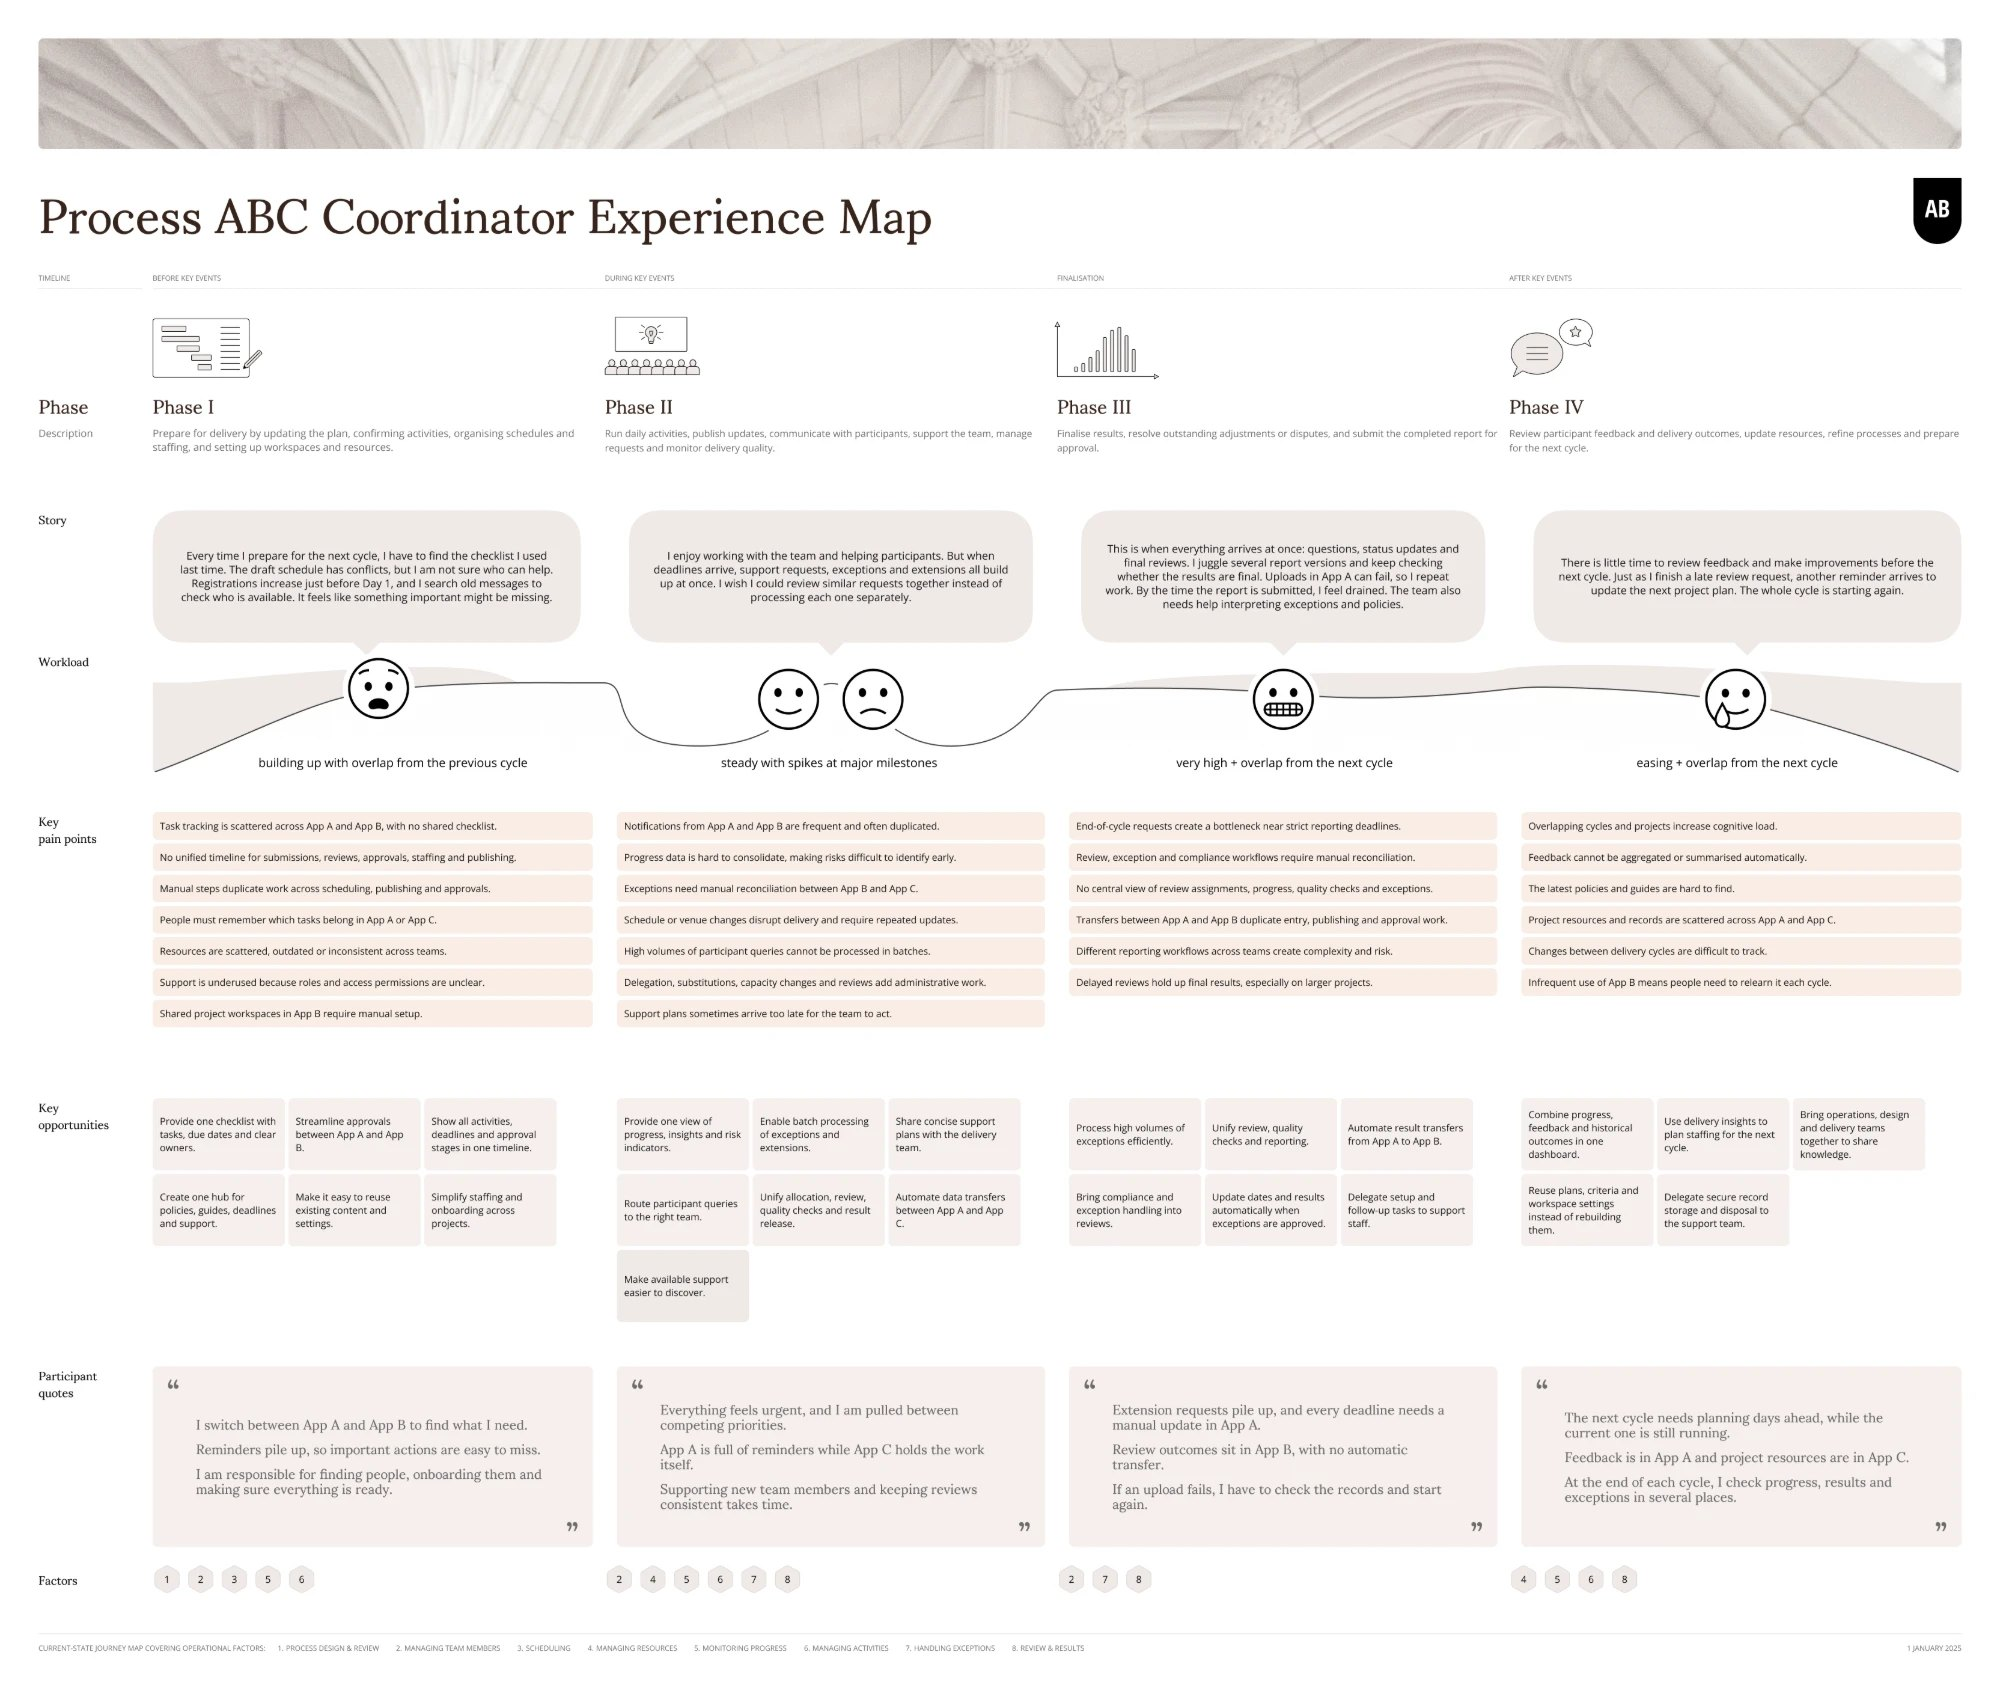
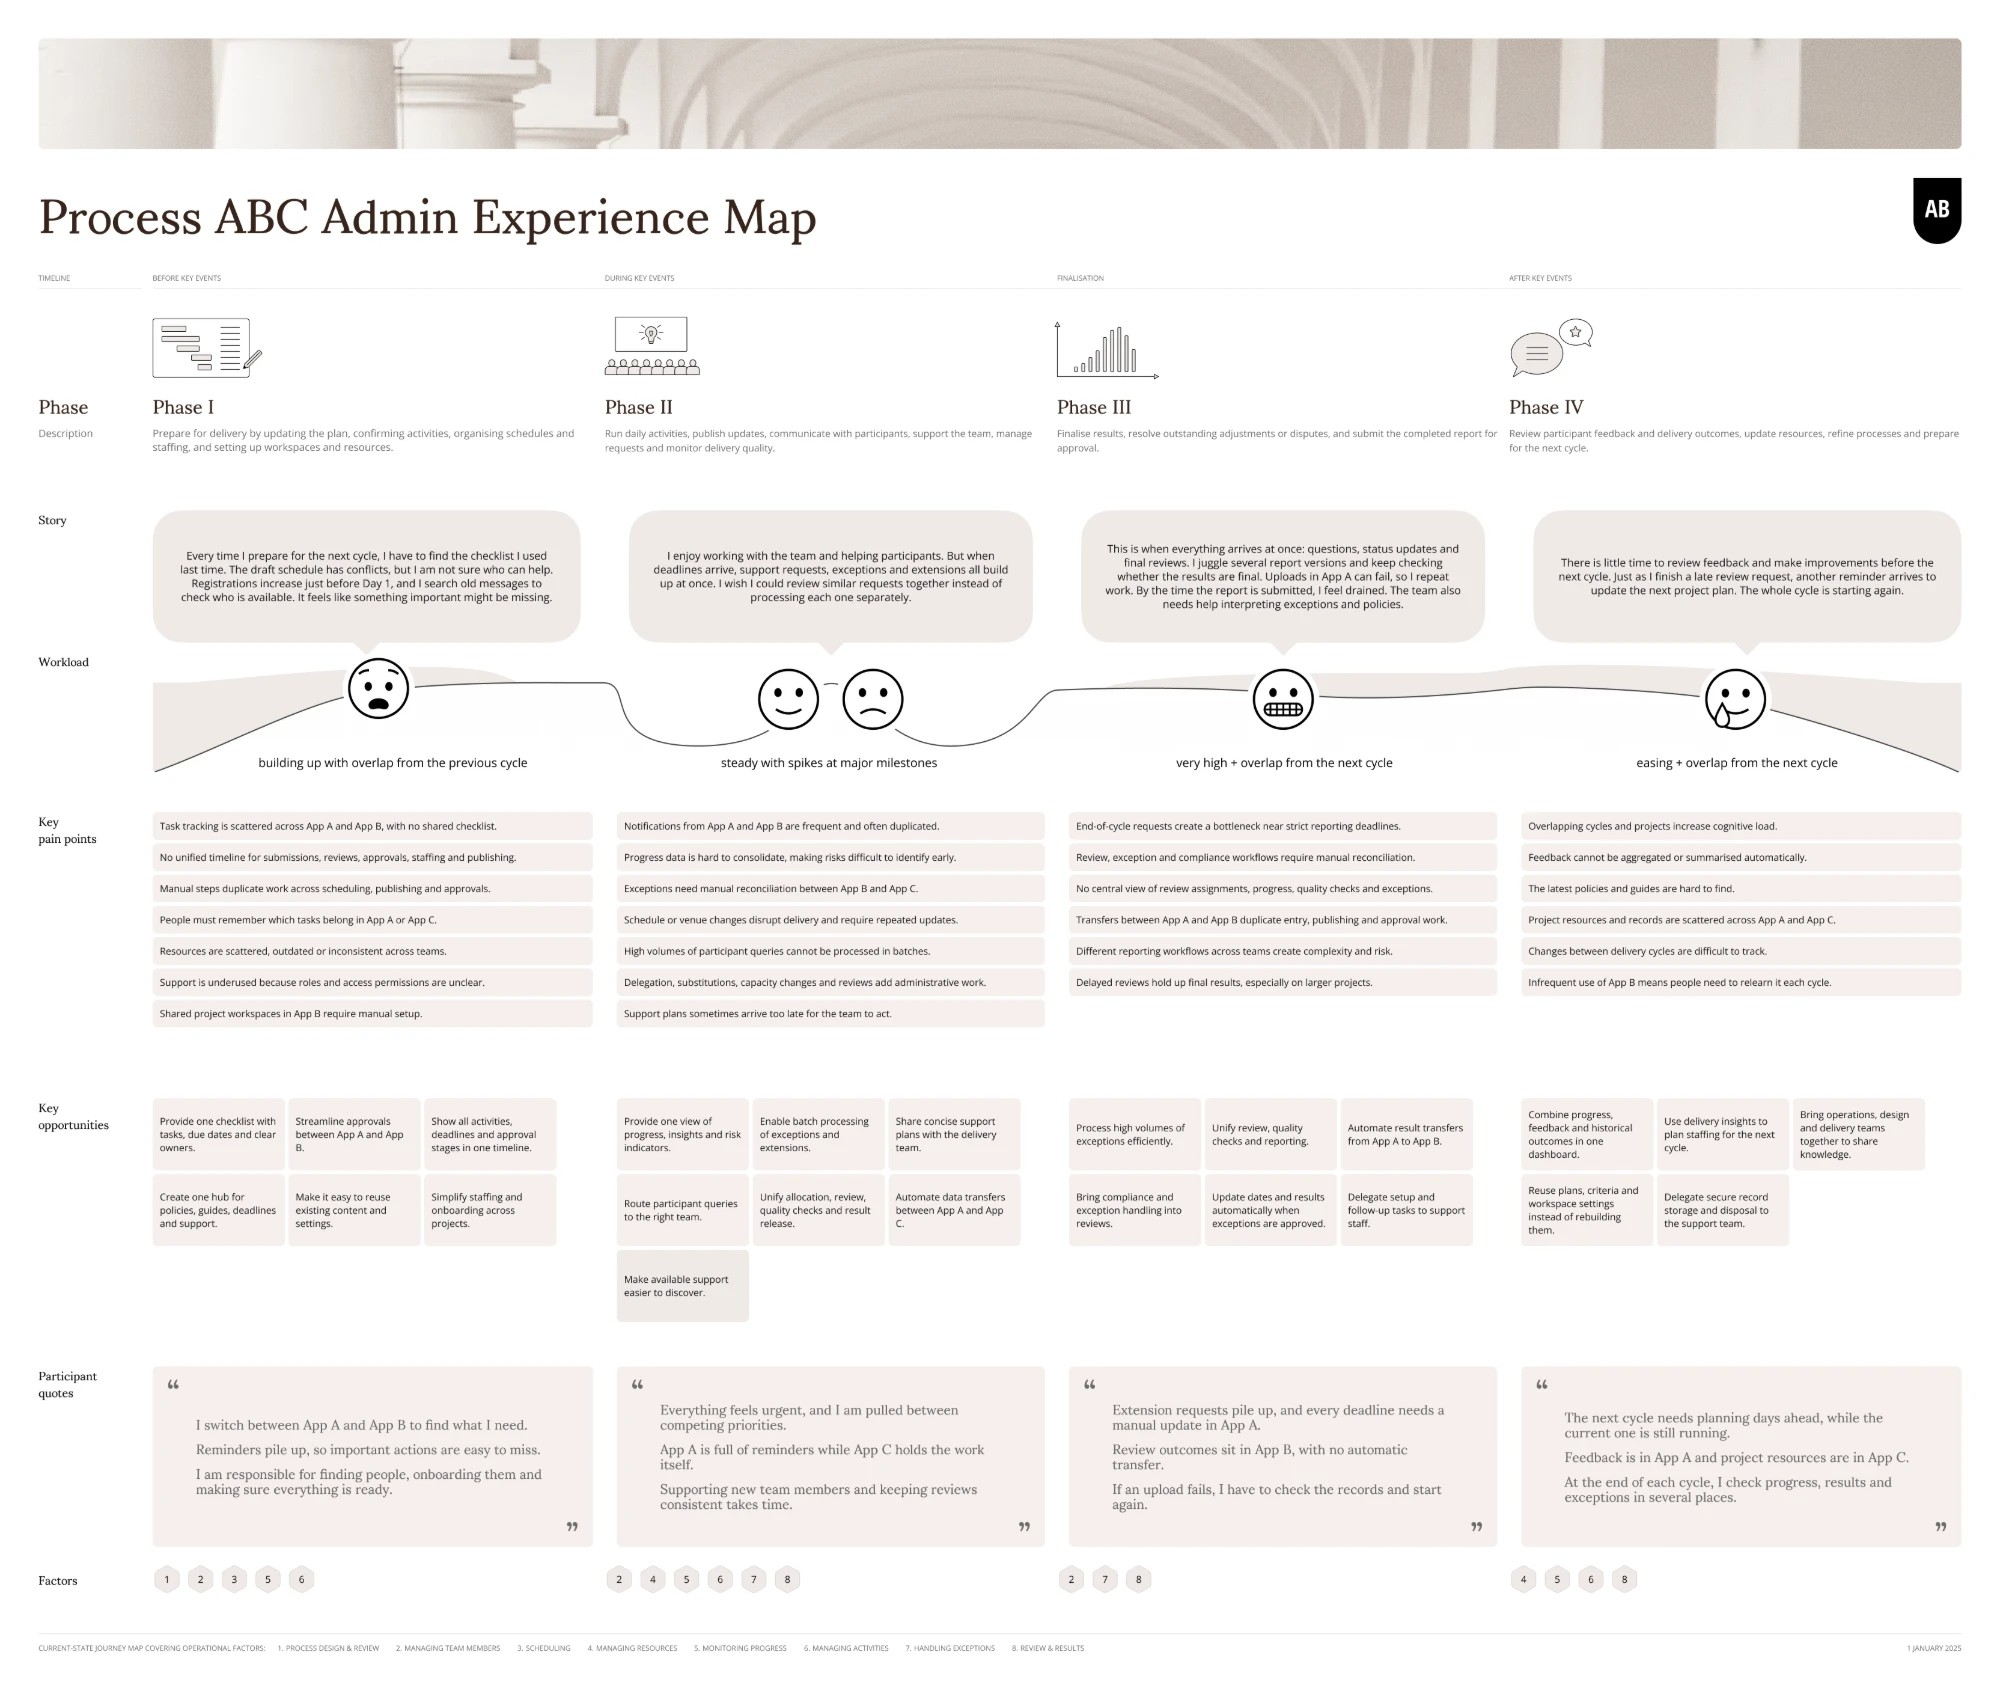
Education case: updated journey map and key tasks images

diff --git a/projects/education-client/index.html b/projects/education-client/index.html
@@ -605,12 +605,12 @@
       </figure>
 
       <figure class="shot">
-        <img src="assets/journey-map.jpg" width="2000" height="1691" loading="lazy" alt="Process ABC Coordinator experience map across four phases: the coordinator’s story, workload curve, key pain points, opportunities and participant quotes for each phase">
+        <img src="assets/journey-map.jpg" width="2000" height="1691" loading="lazy" alt="Process ABC admin experience map across four phases: the admin’s story, workload curve, key pain points, opportunities and participant quotes for each phase">
         <figcaption class="caption">Current-state assessment: journey map, the first end-to-end view of the process from the coordinator’s side, iterated with coordinators, support teams and SMEs.</figcaption>
       </figure>
 
       <figure class="shot">
-        <img src="assets/key-tasks.jpg" width="2000" height="1691" loading="lazy" alt="Process ABC Coordinator tasks across four phases, each task with its timing and the apps it involves, with key pain points highlighted">
+        <img src="assets/key-tasks.jpg" width="2000" height="1691" loading="lazy" alt="Process ABC admin tasks across four phases, each task with its timing and the apps it involves, with key pain points highlighted">
         <figcaption class="caption">Current-state assessment: key tasks.</figcaption>
       </figure>
 
